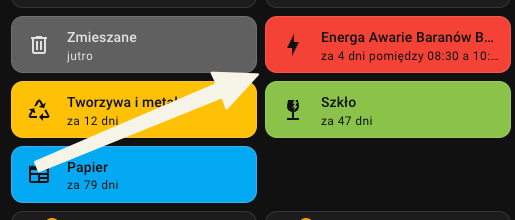
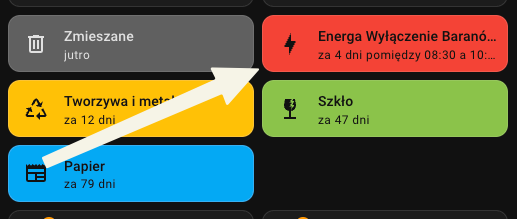
Update in calendar event names

diff --git a/custom_components/energa_awarie/sensor.py b/custom_components/energa_awarie/sensor.py
@@ -250,6 +250,7 @@ class EnergaAwarieSensor(SensorEntity):
             start_dt = outage["start_date"]
             end_dt = outage["end_date"]
 
+            summary = f"Energa Wyłączenie {self._area} {self._city} {self._street}".strip()
             local_start = dt_util.as_local(start_dt)
             local_end = dt_util.as_local(end_dt)
             description = (
@@ -271,7 +272,7 @@ class EnergaAwarieSensor(SensorEntity):
                     ev_start_raw = ev.get("start", {})
                     ev_end_raw = ev.get("end", {})
                     if (
-                        ev_summary == self.name
+                        ev_summary == summary
                         and ev_description == description
                         and ev_start_raw == local_start
                         and ev_end_raw == local_end
@@ -293,7 +294,7 @@ class EnergaAwarieSensor(SensorEntity):
 
             payload = {
                 "entity_id": self._calendar_entity,
-                "summary": self.name,
+                "summary": summary,
                 "description": description,
                 "start_date": local_start,
                 "end_date": local_end,
